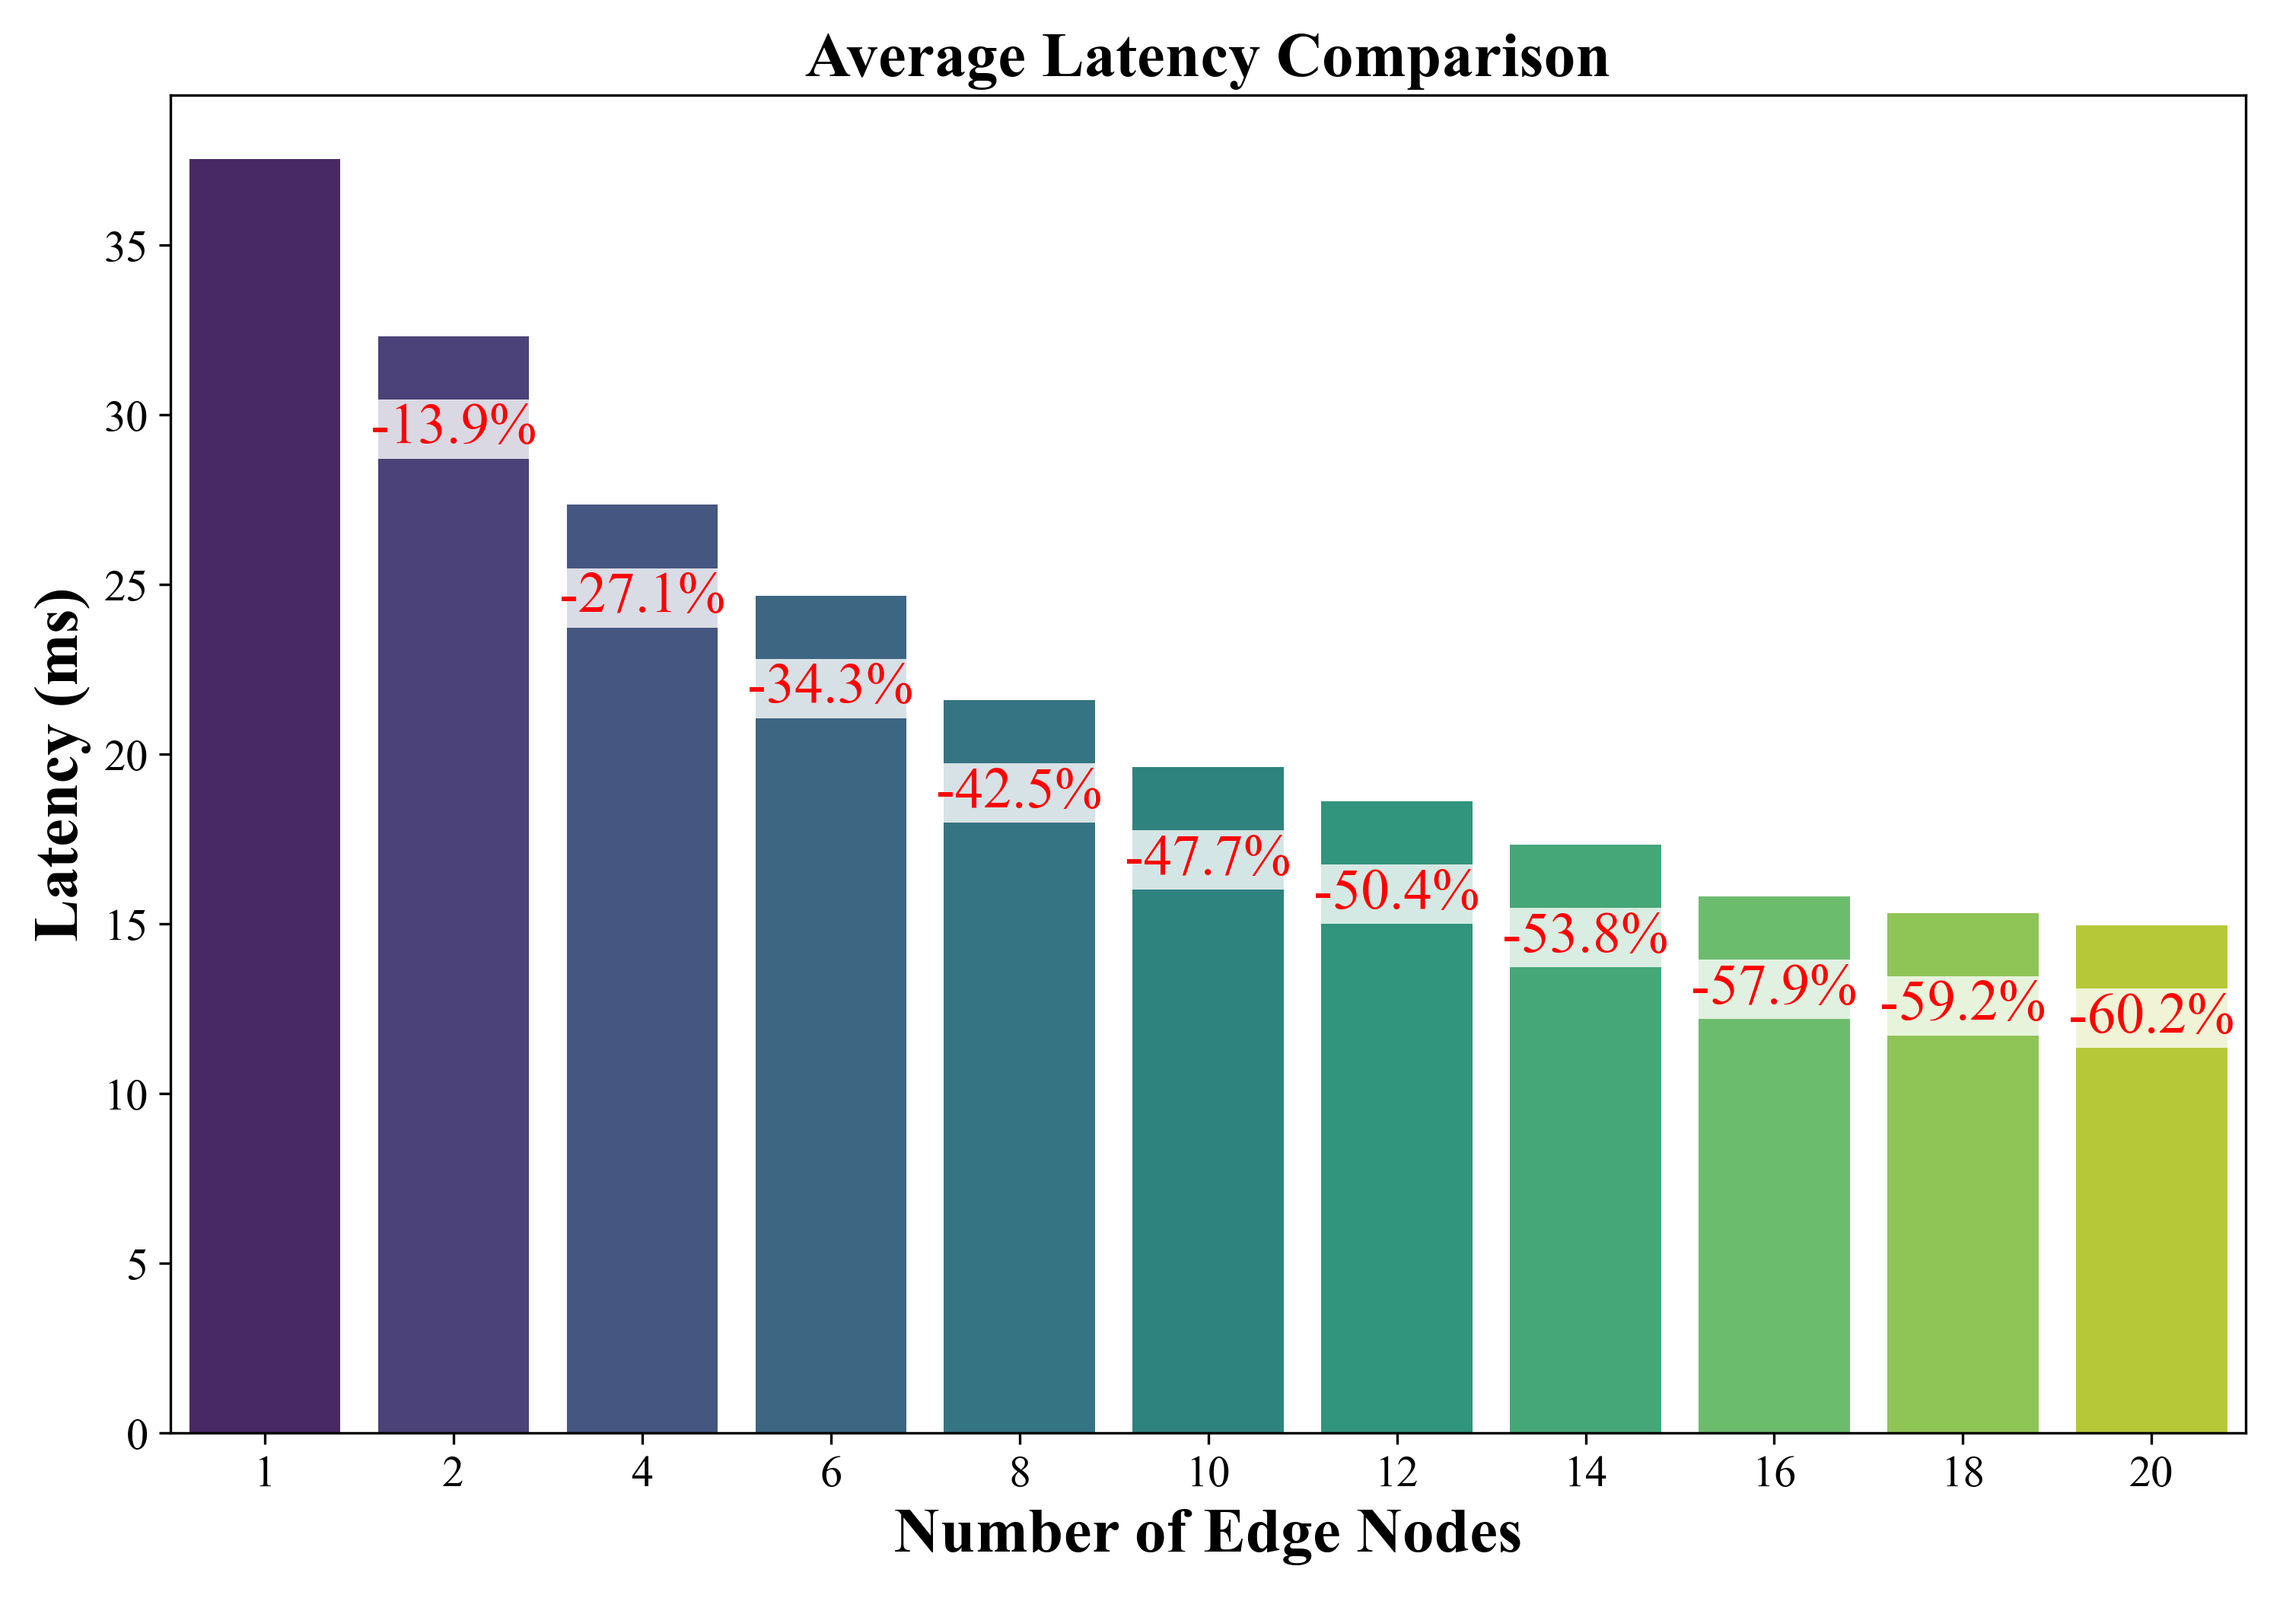
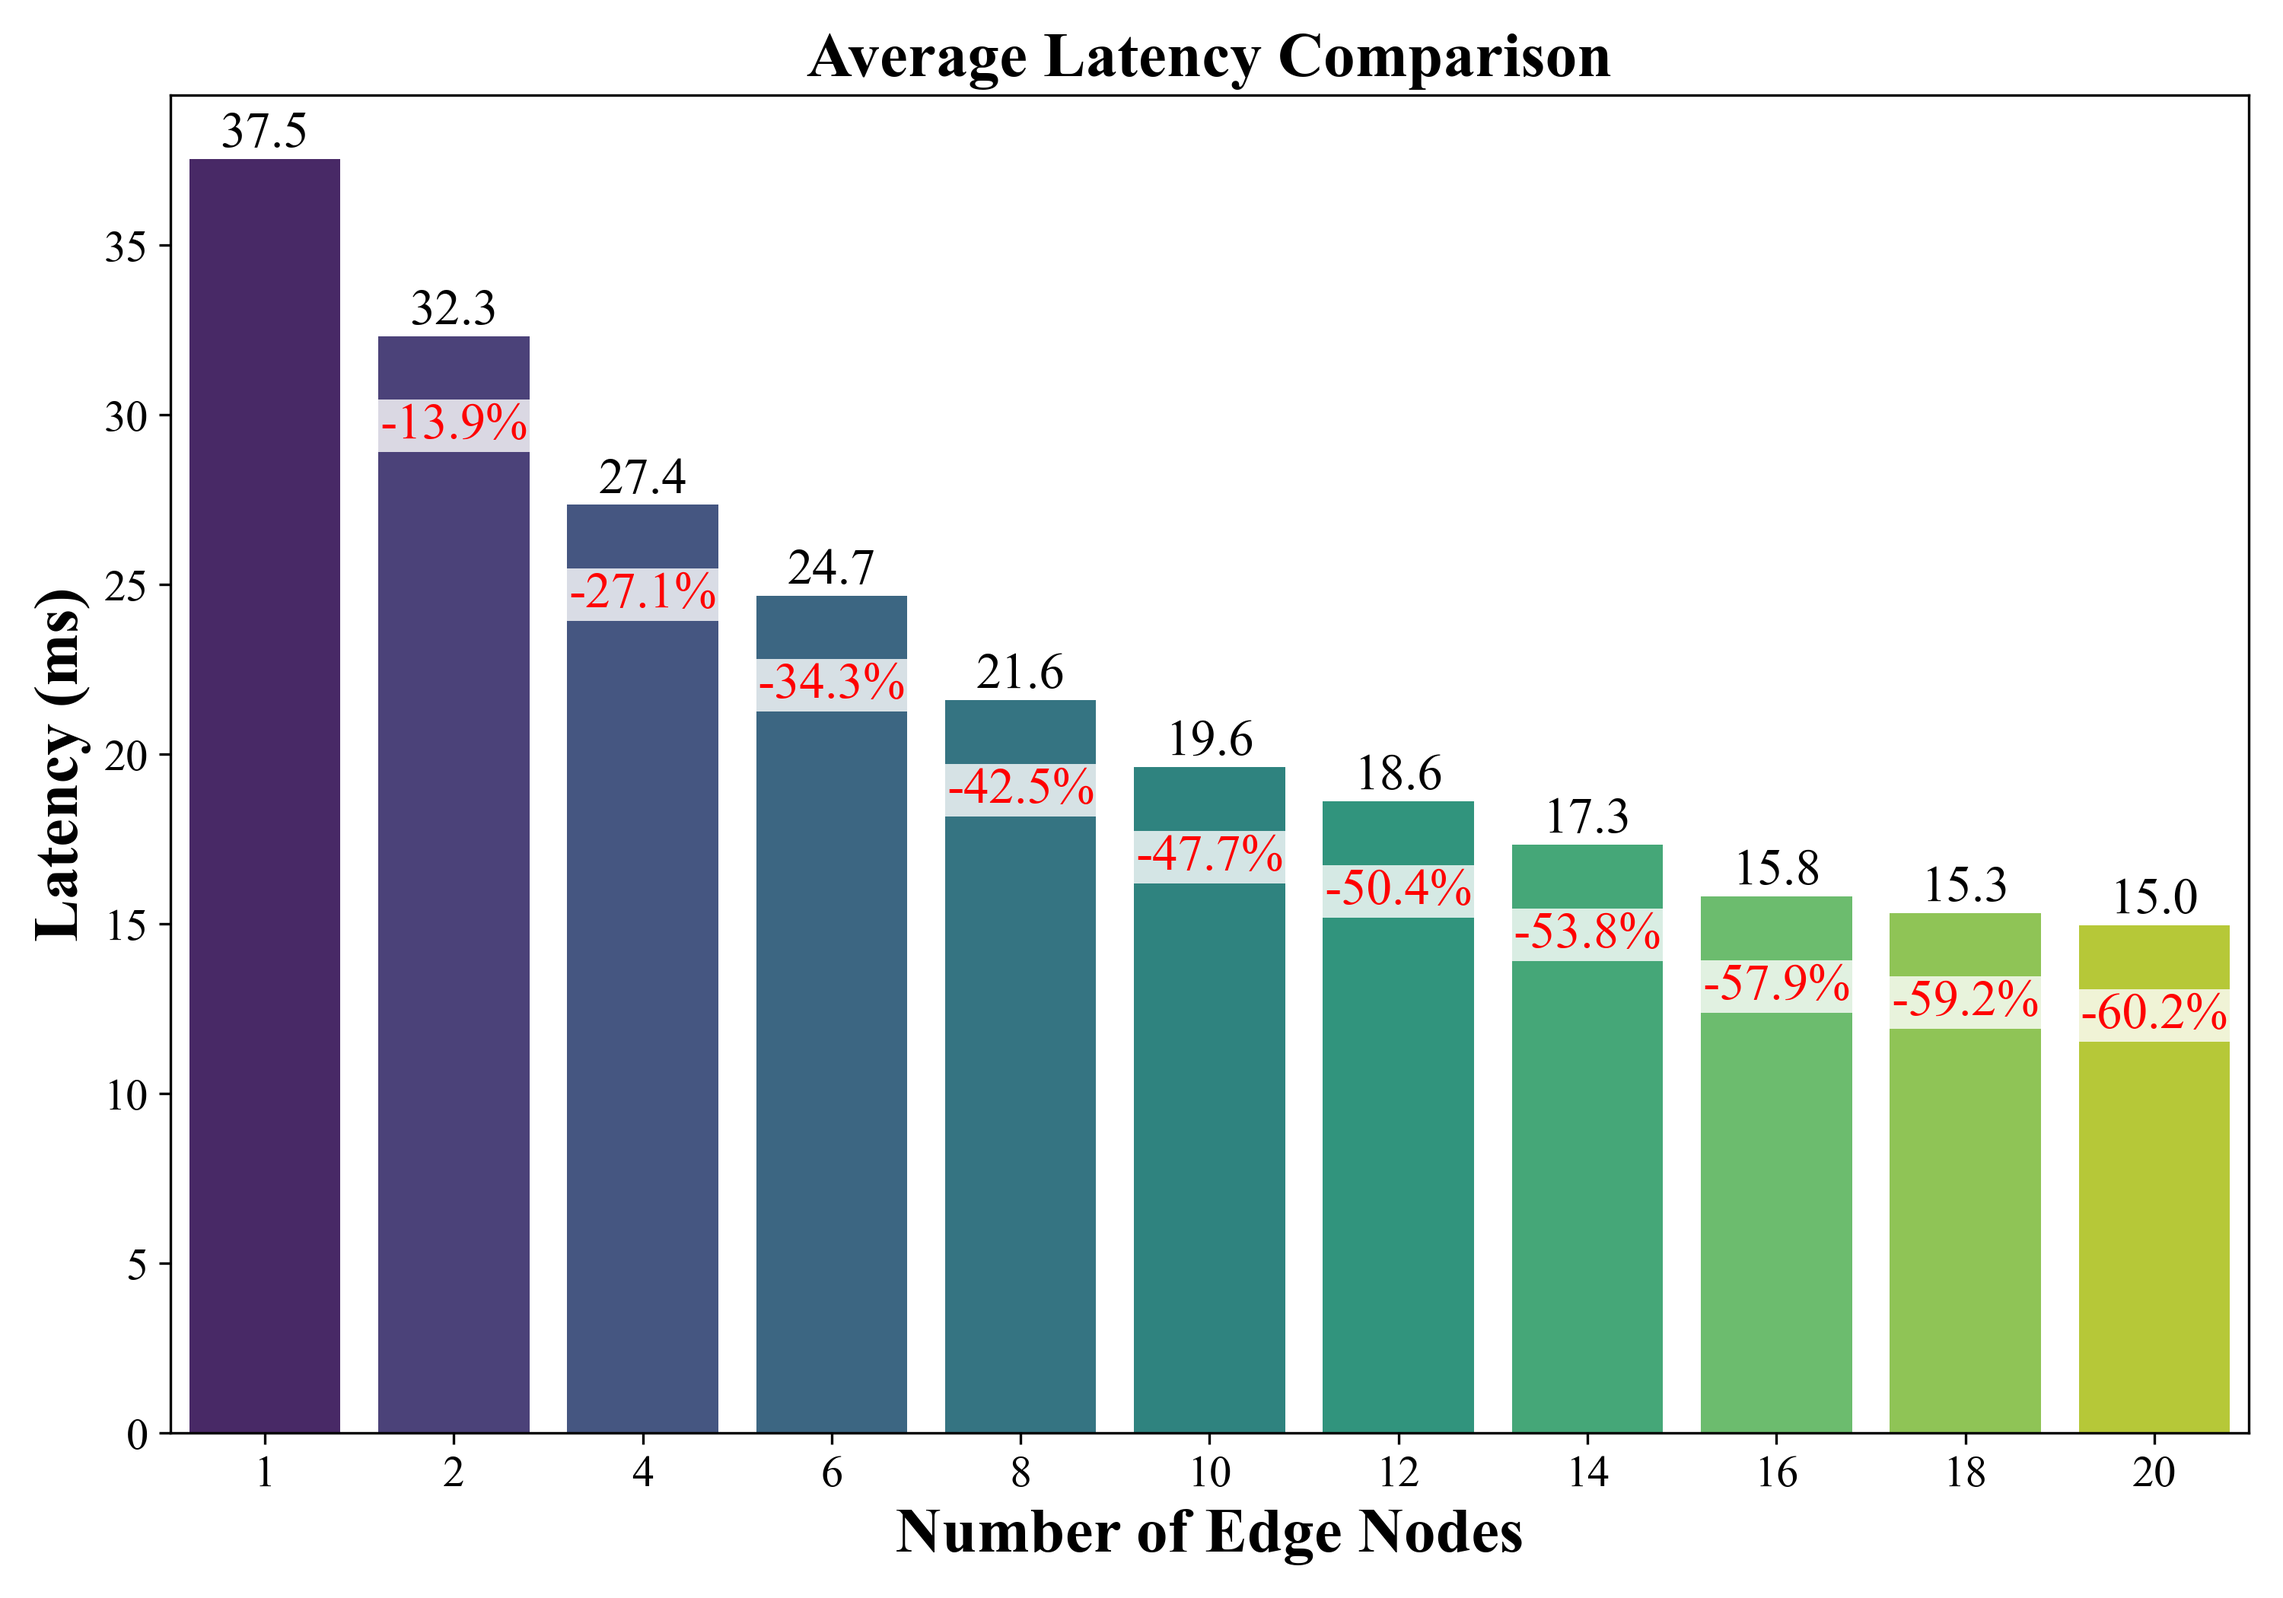
updated graphs with actual value

diff --git a/visualization/visualize.py b/visualization/visualize.py
@@ -100,8 +100,7 @@ def calculate_and_save_metrics() -> pd.DataFrame:
         metrics.loc[metrics['Cluster_Count'] == 1, 'Allocated_Bandwidth'] = post_10['Allocated_Bandwidth'].sum()
 
     # CALCULATE THROUGHPUT FOR ALL ROWS
-    # Throughput formula: (Allocated Bandwidth) / (1 + Latency)
-    # We add 1 to latency to avoid division by zero and to account for base transmission time
+    # Throughput formula: (Allocated Bandwidth) / ( Latency)
     for idx, row in metrics.iterrows():
         if pd.notnull(row['Allocated_Bandwidth']) and pd.notnull(row['Latency']):
             metrics.at[idx, 'Throughput'] = row['Allocated_Bandwidth'] / ( row['Latency'])
@@ -146,17 +145,32 @@ def plot_from_consolidated_csv():
         ymin, ymax = ax.get_ylim()
         y_range = ymax - ymin
         offset = y_range * 0.05  # 5% of y-range as offset
+        value_offset = y_range * 0.001  # Additional offset for actual value label
         
-        # Add percentage change annotations
+        # Add percentage change annotations and actual values
         baseline = metrics[metric].iloc[0]
         for i, row in metrics.iterrows():
-            if i == 0:  # Skip baseline
-                continue
-                
-            change = ((row[metric] - baseline) / baseline) * 100
             current_value = row[metric]
             
-            # Corrected placement for Resource Allocation (inside the bar at the top)
+            
+            if inverted:
+                # For inverted metrics, place value at the top
+                ax.text(i, current_value - value_offset, f"{current_value:.1f}", 
+                    ha='center', va='top',
+                    fontsize=16, color='black',
+                    bbox=dict(facecolor='white', alpha=0.8, 
+                            edgecolor='none', pad=1))
+            else:
+                ax.text(i, current_value + value_offset, f"{current_value:.1f}",
+            ha='center', va='bottom',
+            fontsize=16, color='black')
+            
+            if i == 0:  # Skip baseline for percentage change
+                continue
+                
+            change = ((current_value - baseline) / baseline) * 100
+            
+            # Percentage change label placement
             if metric == 'Resource_Allocation':
                 change_text = f"+{change:.1f}%" if change >= 0 else f"{change:.1f}%"
                 label_y = current_value * 0.98  # 98% of bar height to keep text inside
@@ -165,22 +179,16 @@ def plot_from_consolidated_csv():
                         fontsize=16, color='red',
                         bbox=dict(facecolor='white', alpha=0.8, 
                                 edgecolor='none', pad=1))
-            
-            # Corrected placement for Signal Strength (inverted bars, bottom inside the bar)
-            elif inverted:  # For inverted metrics like Signal Strength (higher is better)
-                # Always show positive changes with + sign
-                label_y = current_value + offset  # Position above the bar
+            elif inverted:  # For inverted metrics like Signal Strength
+                label_y = current_value + offset
                 va = 'bottom'
-                change_text = f"+{abs(change):.1f}%"  # Force positive sign for clarity
-                
+                change_text = f"+{abs(change):.1f}%"
                 ax.text(i, label_y, change_text,
                         ha='center', va=va,
                         fontsize=16, color='red',
                         bbox=dict(facecolor='white', alpha=0.8,
                                 edgecolor='none', pad=1))
-            
-            # Default placement for other metrics (Latency, Distance, etc.)
-            else:
+            else:  # Default case
                 if change < 0:
                     label_y = current_value - offset
                     va = 'top'
@@ -192,7 +200,7 @@ def plot_from_consolidated_csv():
                 
                 ax.text(i, label_y, change_text, 
                         ha='center', va=va,
-                        fontsize=18, color='red',
+                        fontsize=16, color='red',
                         bbox=dict(facecolor='white', alpha=0.8, 
                                 edgecolor='none', pad=1))
         
@@ -200,7 +208,7 @@ def plot_from_consolidated_csv():
         plt.tight_layout()
         plt.savefig(os.path.join(output_folder, f"{filename}.png"), dpi=300)
         plt.close()
-        
+    
     def plot_throughput():
         plt.figure(figsize=(10, 7))
         ax = sns.barplot(x='Cluster_Count', y='Throughput', data=metrics, palette="viridis")
@@ -215,15 +223,21 @@ def plot_from_consolidated_csv():
         ymin, ymax = ax.get_ylim()
         y_range = ymax - ymin
         offset = y_range * 0.05  # 5% of y-range as offset
+        value_offset = y_range * 0.02  # Additional offset for actual value label
         
         # Add percentage change annotations with boundary checks
         baseline = metrics['Throughput'].iloc[0]
         for i, row in metrics.iterrows():
+            current_value = row['Throughput']
+            
+            ax.text(i, current_value + value_offset, f"{current_value:.1f}",
+           ha='center', va='bottom',
+           fontsize=15, color='black')
+            
             if i == 0:  # Skip baseline
                 continue
                 
-            change = ((row['Throughput'] - baseline) / baseline) * 100
-            current_value = row['Throughput']
+            change = ((current_value - baseline) / baseline) * 100
             
             # Determine label position with boundary checks
             if change < 0:  # Degradation (label below bar)
@@ -247,6 +261,9 @@ def plot_from_consolidated_csv():
         plt.tight_layout()
         plt.savefig(os.path.join(output_folder, "throughput_comparison.png"), dpi=300)
         plt.close()
+
+
+
     
     # Generate individual plots
     plot_throughput()
@@ -261,37 +278,49 @@ def plot_from_consolidated_csv():
     # Bandwidth plot (special handling for size)
     plt.figure(figsize=(10, 7))
     ax = sns.barplot(x='Cluster_Count', y='Allocated_Bandwidth', data=metrics, palette="viridis")
-    
+
     # Get y-axis limits
     ymin, ymax = ax.get_ylim()
     y_range = ymax - ymin
     offset = y_range * 0.05
-    
-    # Add percentage change annotations
+    value_offset = y_range * 0.001  # Additional offset for actual value label
+
+    # Add percentage change annotations and actual values
     baseline = metrics['Allocated_Bandwidth'].iloc[0]
     for i, row in metrics.iterrows():
+        current_value = row['Allocated_Bandwidth']
+        
+        # Only show value label for first bar in scientific notation
+        if i == 0:
+            ax.text(i, current_value + value_offset, f"{current_value:.2e}",
+                ha='center', va='bottom',
+                fontsize=14, color='black')
+        
         if i == 0:
             continue
-        change = ((row['Allocated_Bandwidth'] - baseline) / baseline) * 100
+        change = ((current_value - baseline) / baseline) * 100
         
         if change < 0:  # Improvement (reduction)
-            label_y = row['Allocated_Bandwidth'] - offset
+            label_y = current_value - offset
             va = 'top'
             change_text = f"{change:+.1f}%"
         else:  # Degradation (increase)
-            label_y = row['Allocated_Bandwidth'] + offset
+            label_y = current_value + offset
             va = 'bottom'
             change_text = f"+{change:.1f}%"
         
         ax.text(i, label_y, change_text, 
-               ha='center', va=va,
-               fontsize=16, color='red',
-               bbox=dict(facecolor='white', alpha=0.8, 
+            ha='center', va=va,
+            fontsize=16, color='red',
+            bbox=dict(facecolor='white', alpha=0.8, 
                         edgecolor='none', pad=1))
-    
+
+    # Format y-axis in scientific notation
+    ax.yaxis.set_major_formatter(plt.FormatStrFormatter('%.1e'))
+
     ax.set(xlabel='Number of Edge Nodes', 
-           ylabel='Total Allocated Bandwidth (KBps)',
-           title='Total Allocated Bandwidth Comparison')
+        ylabel='Total Allocated Bandwidth (KBps)',
+        title='Total Allocated Bandwidth Comparison')
     plt.tight_layout()
     plt.savefig(os.path.join(output_folder, "total_allocated_bandwidth.png"), dpi=300)
     plt.close()

diff --git a/visualization/cluster_compare.py b/visualization/cluster_compare.py
@@ -2,7 +2,7 @@ import os
 import pandas as pd
 import numpy as np
 from sklearn.metrics import (
-    silhouette_score, davies_bouldin_score, calinski_harabasz_score
+    silhouette_score, calinski_harabasz_score
 )
 import matplotlib.pyplot as plt
 import seaborn as sns
@@ -40,24 +40,18 @@ def analyze_results(df, algorithm, n_clusters):
     # Calculate clustering metrics
     if n_clusters > 1:  # Silhouette Score requires at least 2 clusters
         silhouette_avg = silhouette_score(df[['x_coordinate', 'y_coordinate']], df['Cluster'])
-        davies_bouldin = davies_bouldin_score(df[['x_coordinate', 'y_coordinate']], df['Cluster'])
         calinski_harabasz = calinski_harabasz_score(df[['x_coordinate', 'y_coordinate']], df['Cluster'])
     else:
         silhouette_avg = np.nan
-        davies_bouldin = np.nan
         calinski_harabasz = np.nan
 
-    # Calculate execution time
-    execution_time = time.time() - start_time
 
     # Store results
     results['Algorithm'].append(algorithm)
     results['Cluster_Count'].append(n_clusters)
     results['Average_Distance'].append(avg_distance)
     results['Silhouette_Score'].append(silhouette_avg)
-    results['Davies_Bouldin_Index'].append(davies_bouldin)
     results['Calinski_Harabasz_Index'].append(calinski_harabasz)
-    results['Execution_Time'].append(execution_time)
 
 # Function to visualize clusters and save the plot
 def visualize_clusters(df, algorithm, n_clusters):
